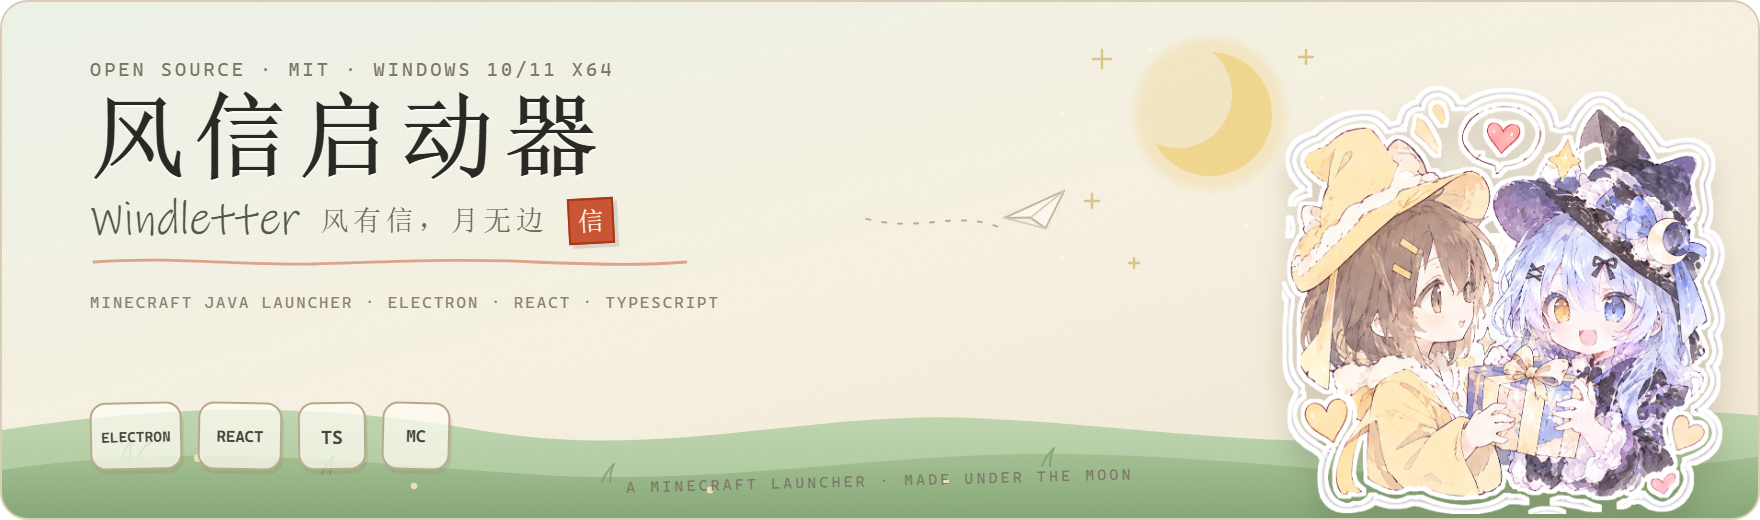
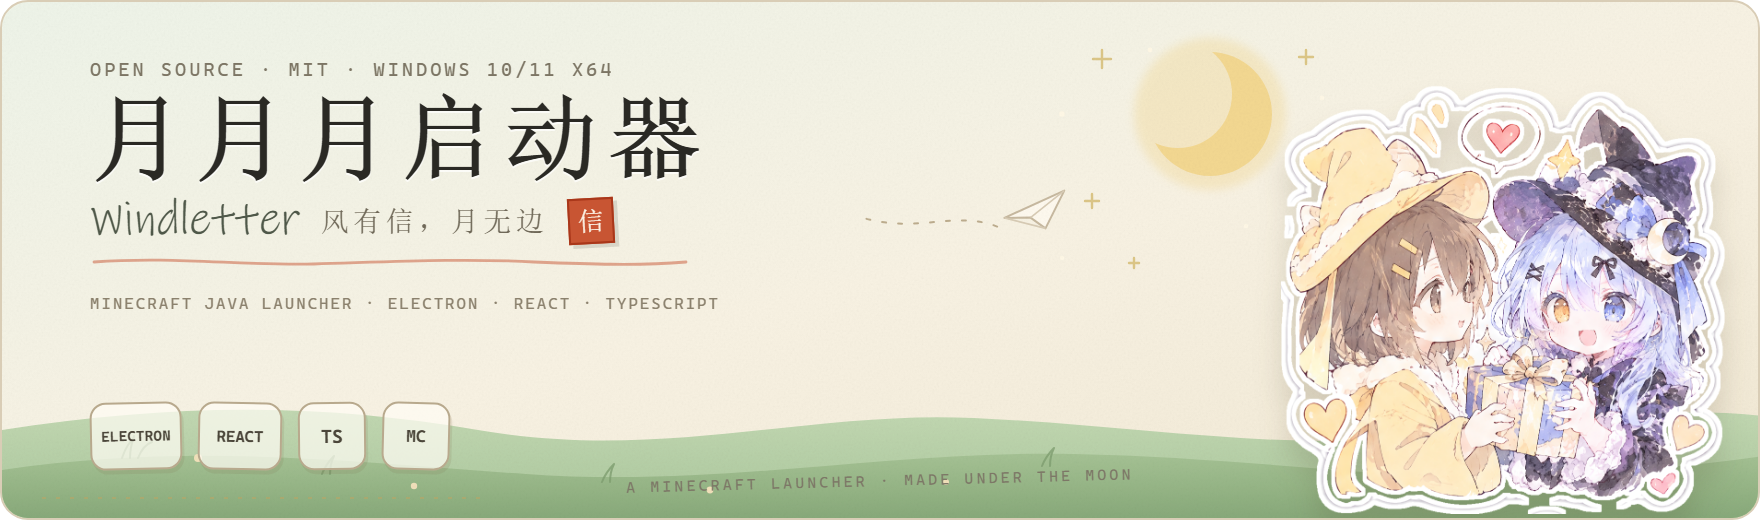
docs: reorganize README with live previews and unify branding

diff --git a/README.md b/README.md
@@ -1,6 +1,6 @@
 <p align="center">
   <a href="https://github.com/muyi0736/windletter/releases/latest">
-    <img src="docs/assets/readme/banner.png" width="880" alt="风信启动器 Windletter — 风有信，月无边">
+    <img src="docs/assets/readme/banner.png" width="880" alt="月月月启动器 Windletter — 风有信，月无边">
   </a>
 </p>
 
@@ -10,27 +10,100 @@
   <a href="docs/CHANGELOG.md"><img src="docs/assets/readme/btn-changelog.png" width="260" alt="版本记录"></a>
 </p>
 
-**Windletter Launcher** —— 风有信，月无边。一个受 PCL2 易用体验启发的 Minecraft Java 版启动器，使用 Electron、React 与 TypeScript 构建，界面、插画与动效均为原创。
+**月月月启动器**（Windletter Launcher）—— 风有信，月无边。一个受 PCL2 易用体验启发的 Minecraft Java 版启动器，使用 Electron、React 与 TypeScript 构建，界面、插画与动效均为原创。
 
 [下载最新版](https://github.com/muyi0736/windletter/releases/latest) · [交接文档](docs/HANDOFF.md) · [版本与验证记录](docs/CHANGELOG.md) · [安全说明](SECURITY.md)
 
-## 功能概览
+<p align="center"><sub><b>v0.60.58</b> · Windows 10/11 x64 · MIT · Electron + React + TypeScript</sub></p>
+
+**目录**：[预览](#预览) · [功能](#功能) · [下载与安装](#下载与安装) · [本地开发](#本地开发) · [更新与验证](#更新与验证) · [文档](#文档) · [安全与许可](#安全与许可)
+
+## 预览
+
+<p align="center">
+  <img src="docs/assets/readme/shot-download.webp" width="880" alt="下载中心：整合包搜索、安装与来源筛选">
+</p>
+
+<p align="center">
+  <img src="docs/assets/readme/shot-home.webp" width="880" alt="启动页：选择世界、账户与实例状态">
+</p>
+
+## 功能
+
+### 游戏与实例
+
+原版、快照与远古版本，Fabric / Quilt / Forge / NeoForge / OptiFine；整合包导入、多版本文件夹、实例迁移与克隆，自动 Java 与启动前体检。
+
+<details>
+<summary>展开细节</summary>
 
 **游戏与实例**：原版、快照与远古版本；Fabric / Quilt / Forge / NeoForge / OptiFine。支持整合包搜索、`.mrpack` / ZIP 导入、原版实例、多版本文件夹、同一加载器多实例、实例迁移与克隆。自动准备 Java，提供启动前体检、崩溃分析和五步登录自检。
 
+</details>
+
+### 下载与搜索
+
+Modrinth + CurseForge 双源，中文名、简称、全拼与拼音首字母搜索，总数与分页；分片、续传、线路测速与镜像回退。
+
+<details>
+<summary>展开细节</summary>
+
 **下载与搜索**：PCL2 式下载中心，Modrinth 与 CurseForge 双源合并；中文名、常用简称、全拼和拼音首字母搜索，带总数与分页。4 MB 以上文件自动分片，断点续传、候选线路测速、镜像回退，并提供下载代理和缓存管理。整合包安装会同时下载包内文件与安装原版/加载器，下载前实测镜像/官方源站速度后选源，提高单主机并发，并复用本机已有文件。CurseForge 整合包还可以单独下载 ServerFiles / ServerPack 服务端包，保存到下载目录。
+
+</details>
+
+### 内容与备份
+
+模组、资源包、光影与数据包，SHA1 / CurseForge 指纹识别；跨实例复用；备份、快照、回滚、存档仓库与统一备份管理。
+
+<details>
+<summary>展开细节</summary>
 
 **内容与备份**：在实例内搜索安装模组、资源包、光影与数据包；内容账本通过 SHA1 / CurseForge 指纹识别文件。安装整合包时会扫描本机其他实例和外部 PCL2 / HMCL 版本目录，同名同大小且 SHA1 一致的文件直接复用。更新前自动备份和快照，失败自动回滚；另有预设模组、存档仓库、加载器更新与回滚、统一备份管理和只读资源预览。
 
+</details>
+
+### KubeJS 工作台
+
+全屏编辑、目录树、多标签与历史 diff；配方 / 标签 / 机器 / 祭坛生成与已有配方导入；AST 预检、一键修复、日志定位与临时服务端验证。
+
+<details>
+<summary>展开细节</summary>
+
 **KubeJS 工作台**：全屏编辑器、真实目录树、多标签与历史 diff；实例物品 / 配方 / 标签索引和图标；配方、标签、机器 / 祭坛可视化生成与已有配方导入；AST 语义预检、问题一键修复和日志定位；可生成临时服务端实际运行验证，检查脚本、配方和标签注册报错；AI 释意、选区改写与配方问答，均显式触发并支持本地降级。
+
+</details>
+
+### 服务器
+
+服务器档案、彩色 MOTD、延迟与在线玩家（Mojang / LittleSkin 皮肤）、实例绑定一键进服；服务端包制作、静态检查与真实启动验证。
+
+<details>
+<summary>展开细节</summary>
 
 **服务器**：服务器档案、彩色 MOTD、延迟与在线玩家（Mojang / LittleSkin 皮肤）、绑定实例一键进服；可制作整合包服务端包，并做静态检查和真实启动验证。
 
+</details>
+
+### 桌面体验
+
+纸墨双主题与八套主题色、自定义背景、1680px 工作台缩放、Ctrl+K、游戏时长周报、截图画廊、启动动画与省内存；日志控制台与重启残留检测。
+
+<details>
+<summary>展开细节</summary>
+
 **桌面体验**：纸墨极简双主题与八套主题色、自定义背景、1680px 工作台等比缩放、`Ctrl+K` 命令面板、游戏时长周报、截图画廊、启动动画与省内存模式。标题栏日志控制台会解析游戏的 log4j XML，按级别 / 来源 / 线程显示，支持警告与错误筛选、连续重复折叠和异常堆栈展开。启动器重启后会检测上次游戏是否仍在运行，并可选择保留或结束进程。
+
+</details>
 
 ## 下载与安装
 
 Windows 10/11 x64。安装包由 GitHub Actions 构建并发布到 [Releases](https://github.com/muyi0736/windletter/releases/latest)。
+
+[**下载最新版 →**](https://github.com/muyi0736/windletter/releases/latest)
+
+<details>
+<summary>数据目录、更新源与校验</summary>
 
 安装版把配置、账户和日志放在安装目录旁的 `WindletterData`，游戏目录默认是其中的 `minecraft`；可用 `WINDLETTER_DATA_DIR` 覆盖数据目录。源码开发模式使用 `%APPDATA%\Windletter`。
 
@@ -41,6 +114,8 @@ https://github.com/muyi0736/windletter/releases/latest/download/latest.json
 ```
 
 安装包必须通过大小与 SHA-256 校验，下载支持取消和断点续传；NSIS 静默升级后自动重启。安装包未做代码签名，Windows 可能显示 SmartScreen 提示。
+
+</details>
 
 ## 本地开发
 
@@ -60,6 +135,9 @@ npm run build
 npm run dist            # 生成 NSIS 安装包；内置 CF key 与默认 GitHub 更新源
 ```
 
+<details>
+<summary>国内网络构建镜像</summary>
+
 Electron 或 electron-builder 的二进制下载被网络阻断时，可以使用镜像后重试：
 
 ```bash
@@ -67,9 +145,14 @@ ELECTRON_MIRROR="https://npmmirror.com/mirrors/electron/" node node_modules/elec
 ELECTRON_BUILDER_BINARIES_MIRROR="https://npmmirror.com/mirrors/electron-builder-binaries/" npm run dist
 ```
 
-## 发布与更新
+</details>
+
+## 更新与验证
 
 推送 `v*` 标签会触发 [`.github/workflows/release.yml`](.github/workflows/release.yml)：类型检查、准备 Electron 二进制、注入构建密钥、打包 NSIS、生成绝对地址 `latest.json` 并创建 GitHub Release。工作流只在标签上运行，普通 PR 不读取 Secret。
+
+<details>
+<summary>更新源、线路测速与回退细节</summary>
 
 本地生成更新清单：
 
@@ -83,7 +166,9 @@ npm run update:manifest -- <安装包路径> \
 
 GitHub 更新源会自动改用官方 `api.github.com` Release API：版本、更新说明、安装包大小和 SHA-256 都来自官方元数据，安装包从 GitHub asset API 或测速选出的镜像线路下载，完整性仍按官方 SHA-256 校验。下载前会用 4 路 Range 实测候选线路的吞吐量和分段能力，避免选到延迟低但分段失败的镜像；下载时多个可用线路同时参与分段（16–24 段），某条线路限额或失败会自动切换。启动检查会复用 6 小时内的结果，API 请求使用 ETag 条件请求；遇到限额时会记录恢复时间，在恢复前不再请求，界面显示“限额退避”和恢复时间。API 不可用时先回退 `latest.json`，仍失败则使用上次成功缓存，并标注“清单回退”或“上次缓存”。GitHub 直连受限时也可以手动把更新源改为镜像清单，例如 `https://ghfast.top/https://github.com/muyi0736/windletter/releases/latest/download/latest.json`（或把前缀换成 `https://gh-proxy.com/`）。
 
-## 公开源码与密钥
+</details>
+
+### 公开源码与密钥
 
 共享 CurseForge key 不进入仓库，发布构建时由 Vite `define` 注入；GitHub Actions 从仓库 Secret `CURSEFORGE_API_KEY` 读取。注入后的 key 仍存在于主进程 bundle 和安装包中，可以被逆向提取；需要真正保密时应改用服务端代理。没有注入 key 的源码构建可在设置中填写自己的 key，或切换到 MCIM 镜像。更多边界见 [SECURITY.md](SECURITY.md)。
 
@@ -114,7 +199,7 @@ build/         应用图标与更新说明
 docs/          交接文档与版本记录
 ```
 
-## 安全与声明
+## 安全与许可
 
 - 账户访问令牌与刷新令牌保存在本机配置文件中，不会上传到第三方服务器；配置文件目前未加密，请注意保护。
 - 启动器不会下载或分发 Minecraft 游戏资源本体，所有资源均从官方源或公开镜像获取。
@@ -122,12 +207,10 @@ docs/          交接文档与版本记录
 - 本项目是非官方第三方软件，与 Mojang Studios、Microsoft、Modrinth 无关联，也未被其认可或赞助。
 - 在线游戏需要拥有正版 Minecraft Java 版。离线账户仅建议用于本地测试与个人存档。
 
-## 许可证
-
 本项目以 [MIT License](LICENSE) 开源。Minecraft、Mojang 与 Microsoft 的相关名称和资源归其各自权利人所有。
+
+有问题或建议欢迎开 [Issue](https://github.com/muyi0736/windletter/issues)；提交代码前请先看 [docs/HANDOFF.md](docs/HANDOFF.md) 与 [SECURITY.md](SECURITY.md)。
 
 ## 致谢
 
-- 界面与交互灵感来自 [PCL2](https://github.com/Hex-Dragon/PCL2) 与 [PCL2CE](https://github.com/PCL-Community/PCL2-CE)。
-- 版本元数据来自 Mojang Piston Meta，镜像加速由 [BMCLAPI](https://bmclapidoc.bangbang93.com/) 提供。
-- 使用 Electron、React、TypeScript、Vite、Zustand 与 Lucide 构建。
+界面与交互灵感来源于 [PCL2](https://github.com/Hex-Dragon/PCL2) 与 PCL2CE，感谢原作者与社区。版本元数据来自 Mojang Piston Meta；镜像加速由 BMCLAPI 提供。整合包与模组元数据来自 Modrinth 与 CurseForge。
